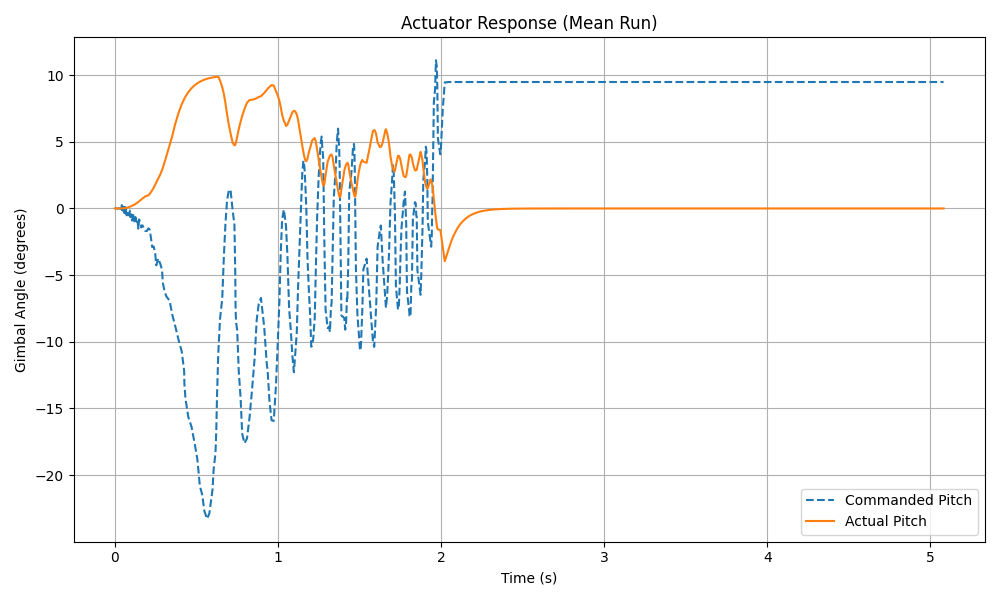
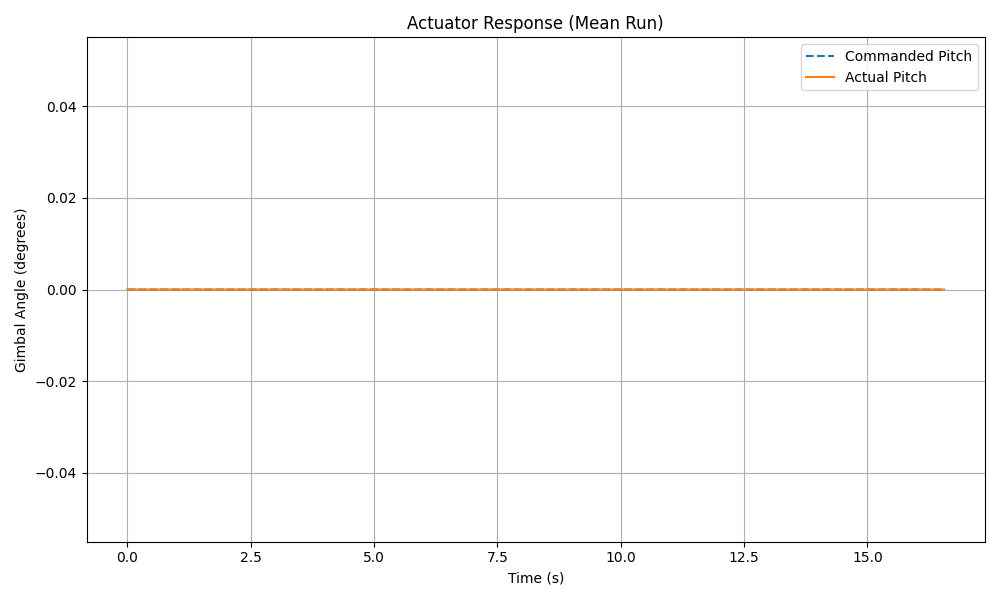
Add rocketpy-sim.py and update simulation parameters
Added rocketpy-sim.py for RocketPy-based simulation. Updated phase4_simulation.py to match RocketPy parameters: set N_RUNS=1, adjusted inertia tensor, and set PID gains to zero. Updated related PNG output files to reflect new simulation results.

diff --git a/rocketpy-sim.py b/rocketpy-sim.py
@@ -1,0 +1,126 @@
+import numpy as np
+import matplotlib.pyplot as plt
+from rocketpy import Environment, SolidMotor, Rocket, Flight
+
+# --- Parameters from the original script ---
+
+# Rocket Properties
+DRY_MASS_MEAN = 0.060  # 60 grams
+ROCKET_DIAMETER = 0.034  # 34mm diameter
+
+# Motor Properties
+PROPELLANT_MASS_MEAN = 0.0125  # 12.5g
+TIME_POINTS = np.array([
+    0.0, 0.01248, 0.014, 0.026, 0.067, 0.099, 0.15, 0.183, 0.207, 0.219,
+    0.262, 0.333, 0.349, 0.392, 0.475, 0.653, 0.913, 1.366, 1.607, 1.745,
+    1.978, 2.023, 2.024
+])
+THRUST_POINTS_BASE = np.array([
+    0.0, 0.0227, 0.633, 1.533, 2.726, 5.136, 9.103, 11.465, 11.635, 11.391,
+    6.377, 5.014, 5.209, 4.722, 4.771, 4.746, 4.673, 4.625, 4.625, 4.868,
+    4.795, 0.828, 0.0
+])
+thrust_curve = np.array([TIME_POINTS, THRUST_POINTS_BASE]).T
+
+# Environment
+GROUND_WIND_SPEED_MEAN = 4.0  # m/s
+
+# --- 1. Environment Setup ---
+print("Setting up the environment...")
+env = Environment(latitude=32.990254, longitude=-106.974998, elevation=1400)
+env.set_atmospheric_model(
+    type="custom_atmosphere",
+    pressure=None,
+    temperature=None,
+    wind_u=lambda h: GROUND_WIND_SPEED_MEAN * (max(h, 0) / 10.0)**0.15,
+    wind_v=0
+)
+
+# --- 2. Motor Definition ---
+print("\nDefining the solid motor...")
+motor = SolidMotor(
+    thrust_source=thrust_curve,
+    dry_mass=0.015,
+    dry_inertia=(0.005, 0.005, 0.0001),
+    nozzle_radius=0.005,
+    burn_time=TIME_POINTS[-1],
+    grain_number=1,
+    grain_density=1800,
+    grain_outer_radius=0.015,
+    grain_initial_inner_radius=0.005,
+    grain_initial_height=0.05,
+    nozzle_position=0,
+    interpolation_method="linear",
+    grain_separation=0.005,
+    grains_center_of_mass_position=-0.035,
+    center_of_dry_mass_position=-0.035
+)
+
+# --- 3. Rocket Definition ---
+print("\nDefining the rocket structure...")
+rocket = Rocket(
+    radius=ROCKET_DIAMETER / 2,
+    mass=DRY_MASS_MEAN,
+    inertia=(.007, .007, .0001),
+    power_off_drag=0.6,
+    power_on_drag=0.6,
+    # --- ARGUMENT ADDED TO FIX THE ERROR ---
+    # This specifies the center of mass of the rocket *before* the motor is added.
+    # The value is an estimate in meters from the rocket's tail (position 0).
+    center_of_mass_without_motor=0.15
+)
+rocket.add_motor(motor, position=0)
+nose_cone = rocket.add_nose(length=0.10, kind="ogive", position=0.35)
+fins = rocket.add_trapezoidal_fins(
+    n=4,
+    root_chord=0.05,
+    tip_chord=0.02,
+    span=0.04,
+    position=0.0
+)
+
+# --- 4. Parachute System ---
+print("\nAdding parachute system...")
+main_chute = rocket.add_parachute(
+    "Main",
+    cd_s=1.0,
+    trigger="apogee",
+    sampling_rate=105,
+    lag=1.5,
+    noise=(0, 8.3, 0.5),
+)
+
+# --- 5. Flight Simulation ---
+print("\nSimulating flight...")
+test_flight = Flight(
+    rocket=rocket,
+    environment=env,
+    rail_length=1.0,
+    inclination=85,
+    heading=0,
+    max_time=30.0
+)
+
+# --- 6. Display Results ---
+print("\n--- Flight Results ---")
+test_flight.prints.all()
+
+# --- 7. Generate Plots ---
+print("\nGenerating standard plots...")
+test_flight.plots.trajectory_3d()
+test_flight.plots.linear_kinematics()
+
+# --- 8. Custom Position vs. Time Plot ---
+print("\nGenerating custom Position vs. Time plot...")
+plt.figure(figsize=(10, 6))
+plt.plot(test_flight.t, test_flight.x, label='X Position (East)')
+plt.plot(test_flight.t, test_flight.y, label='Y Position (North)')
+plt.plot(test_flight.t, test_flight.z, label='Z Position (Altitude)', linewidth=2.5)
+plt.title("Position Components vs. Time")
+plt.xlabel("Time (s)")
+plt.ylabel("Position (m)")
+plt.legend()
+plt.grid(True)
+plt.show()
+
+print("\nSimulation complete. Close plot windows to exit.")

diff --git a/phase4_simulation.py b/phase4_simulation.py
@@ -10,7 +10,7 @@ from matplotlib.backends.backend_tkagg import FigureCanvasTkAgg
 from matplotlib.figure import Figure
 
 # --- Monte Carlo Parameters ---
-N_RUNS = 4
+N_RUNS = 1
 
 # The base thrust curve is the mean. STD is the per-point variation.
 THRUST_CURVE_STD = 0.05 # 5% Variation
@@ -67,13 +67,13 @@ THRUST_POINTS_BASE = np.array([
 ])
 
 ENGINE_BURN_TIME = TIME_POINTS[-1]
-INERTIA_TENSOR = np.diag([0.01, 0.01, 0.001])
+INERTIA_TENSOR = np.diag([0.007, 0.007, 0.0001])  # Inertia tensor matching rocketpy-sim values
 INERTIA_TENSOR_INV = np.linalg.inv(INERTIA_TENSOR)
-ROCKET_DIAMETER = 0.034 # 34mm diameter
+ROCKET_DIAMETER = 0.034  # 34mm diameter (same as rocketpy-sim)
 ROCKET_AREA = np.pi * (ROCKET_DIAMETER / 2)**2
 # --- Advanced Aerodynamics ---
 GIMBAL_VECTOR = np.array([0, 0, -1.0]) # Location of gimbal pivot relative to CoM
-KP, KI, KD = 0.05, 0.1, 0.01 # PID gains are now constant
+KP, KI, KD = 0.0, 0.0, 0.0 # PID gains are now constant
 MAX_GIMBAL_ANGLE = np.deg2rad(10) # Limit gimbal to 10 degrees
 
 # --- Helper Functions ---
